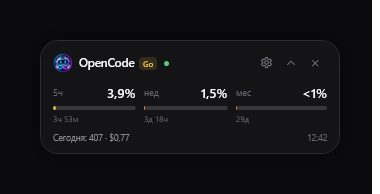
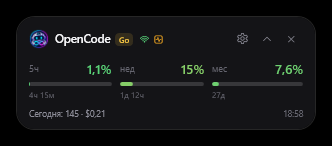
Color limit indicators green to red by usage

diff --git a/MainWindow.xaml b/MainWindow.xaml
@@ -237,14 +237,11 @@
                         <ColumnDefinition Width="*" />
                     </Grid.ColumnDefinitions>
                     <controls:RingMeter x:Name="FiveHourMeter"
-                                        Grid.Column="0"
-                                        Accent="{StaticResource RingFiveBrush}" />
+                                        Grid.Column="0" />
                     <controls:RingMeter x:Name="WeekMeter"
-                                        Grid.Column="1"
-                                        Accent="{StaticResource RingWeekBrush}" />
+                                        Grid.Column="1" />
                     <controls:RingMeter x:Name="MonthMeter"
-                                        Grid.Column="2"
-                                        Accent="{StaticResource RingMonthBrush}" />
+                                        Grid.Column="2" />
                 </Grid>
 
                 <Border Grid.Row="4"
@@ -457,15 +454,12 @@
                     </Grid.ColumnDefinitions>
                     <controls:MiniMeter x:Name="CompactFiveHour"
                                         Grid.Column="0"
-                                        Accent="{StaticResource RingFiveBrush}"
                                         Margin="0,0,8,0" />
                     <controls:MiniMeter x:Name="CompactWeek"
                                         Grid.Column="1"
-                                        Accent="{StaticResource RingWeekBrush}"
                                         Margin="0,0,8,0" />
                     <controls:MiniMeter x:Name="CompactMonth"
-                                        Grid.Column="2"
-                                        Accent="{StaticResource RingMonthBrush}" />
+                                        Grid.Column="2" />
                 </Grid>
 
                 <!-- Compact error -->

diff --git a/App.xaml b/App.xaml
@@ -20,9 +20,6 @@
             <SolidColorBrush x:Key="DangerBrush" Color="#FFFF6B6B" />
             <SolidColorBrush x:Key="InputBrush" Color="#B3101013" />
             <SolidColorBrush x:Key="InputBorderBrush" Color="#26FFFFFF" />
-            <SolidColorBrush x:Key="RingFiveBrush" Color="#FFF5C542" />
-            <SolidColorBrush x:Key="RingWeekBrush" Color="#FFFF9F0A" />
-            <SolidColorBrush x:Key="RingMonthBrush" Color="#FFFF714B" />
 
             <LinearGradientBrush x:Key="AccentGradient" StartPoint="0,0" EndPoint="1,1">
                 <GradientStop Color="#FFF8D66B" Offset="0" />

diff --git a/Controls/RingMeter.xaml.cs b/Controls/RingMeter.xaml.cs
@@ -9,24 +9,12 @@ namespace OpenCodeWidget.Controls;
 
 public partial class RingMeter : UserControl
 {
-    public static readonly DependencyProperty AccentProperty = DependencyProperty.Register(
-        nameof(Accent),
-        typeof(Brush),
-        typeof(RingMeter),
-        new PropertyMetadata(Brushes.Gold, OnAccentChanged));
-
     private static readonly CultureInfo Ru = CultureInfo.GetCultureInfo("ru-RU");
     private static readonly Duration AnimationDuration = new(TimeSpan.FromMilliseconds(520));
 
     public RingMeter()
     {
         InitializeComponent();
-    }
-
-    public Brush Accent
-    {
-        get => (Brush)GetValue(AccentProperty);
-        set => SetValue(AccentProperty, value);
     }
 
     public void SetData(double percent, string title, string resetText, string? tooltip = null)
@@ -38,21 +26,8 @@ public partial class RingMeter : UserControl
         PercentText.Text = FormatPercent(percent);
         ToolTip = tooltip;
 
-        var foreground = ResourceBrush("TextBrush");
-        var accent = Accent ?? Brushes.Gold;
-
-        if (percent >= 90)
-        {
-            accent = ResourceBrush("DangerBrush");
-            foreground = accent;
-        }
-        else if (percent >= 70)
-        {
-            accent = ResourceBrush("WarningBrush");
-            foreground = accent;
-        }
-
-        PercentText.Foreground = foreground;
+        var accent = LimitPalette.BrushFor(percent);
+        PercentText.Foreground = accent;
         Ring.Accent = accent;
 
         var animation = new DoubleAnimation(percent, AnimationDuration)
@@ -72,12 +47,6 @@ public partial class RingMeter : UserControl
         ToolTip = message;
         Ring.BeginAnimation(RingRenderer.ValueProperty, null);
         Ring.Value = 0;
-    }
-
-    private static void OnAccentChanged(DependencyObject d, DependencyPropertyChangedEventArgs e)
-    {
-        if (d is RingMeter meter && meter.Ring is not null && e.NewValue is Brush brush)
-            meter.Ring.Accent = brush;
     }
 
     private static Brush ResourceBrush(string key)

diff --git a/Controls/MiniMeter.xaml.cs b/Controls/MiniMeter.xaml.cs
@@ -14,12 +14,6 @@ public partial class MiniMeter : UserControl
         typeof(MiniMeter),
         new PropertyMetadata(0d, OnValueChanged));
 
-    public static readonly DependencyProperty AccentProperty = DependencyProperty.Register(
-        nameof(Accent),
-        typeof(Brush),
-        typeof(MiniMeter),
-        new PropertyMetadata(Brushes.Gold, OnAccentChanged));
-
     private static readonly CultureInfo Ru = CultureInfo.GetCultureInfo("ru-RU");
 
     public MiniMeter()
@@ -34,12 +28,6 @@ public partial class MiniMeter : UserControl
         set => SetValue(ValueProperty, value);
     }
 
-    public Brush Accent
-    {
-        get => (Brush)GetValue(AccentProperty);
-        set => SetValue(AccentProperty, value);
-    }
-
     public void SetData(double percent, string title, string resetText, string? tooltip = null)
     {
         Value = Math.Clamp(percent, 0, 100);
@@ -48,22 +36,9 @@ public partial class MiniMeter : UserControl
         PercentText.Text = FormatPercent(Value);
         ToolTip = tooltip;
 
-        var accent = Accent ?? Brushes.Gold;
-        var foreground = ResourceBrush("TextBrush");
-
-        if (Value >= 90)
-        {
-            accent = ResourceBrush("DangerBrush");
-            foreground = accent;
-        }
-        else if (Value >= 70)
-        {
-            accent = ResourceBrush("WarningBrush");
-            foreground = accent;
-        }
-
+        var accent = LimitPalette.BrushFor(Value);
         Fill.Background = accent;
-        PercentText.Foreground = foreground;
+        PercentText.Foreground = accent;
         UpdateFill();
     }
 
@@ -89,12 +64,6 @@ public partial class MiniMeter : UserControl
     {
         if (d is MiniMeter meter)
             meter.UpdateFill();
-    }
-
-    private static void OnAccentChanged(DependencyObject d, DependencyPropertyChangedEventArgs e)
-    {
-        if (d is MiniMeter meter && e.NewValue is Brush brush && meter.Value < 70)
-            meter.Fill.Background = brush;
     }
 
     private static Brush ResourceBrush(string key)

diff --git a/MainWindow.xaml.cs b/MainWindow.xaml.cs
@@ -409,6 +409,9 @@ public partial class MainWindow : Window
             TaskbarFiveHour.Text = "-";
             TaskbarWeek.Text = "-";
             TaskbarMonth.Text = "-";
+            TaskbarFiveHour.Foreground = (Brush)FindResource("TextBrush");
+            TaskbarWeek.Foreground = (Brush)FindResource("TextBrush");
+            TaskbarMonth.Foreground = (Brush)FindResource("TextBrush");
             TaskbarCard.ToolTip = string.IsNullOrEmpty(_loadSummary)
                 ? "OpenCode Go"
                 : "OpenCode Go\n" + _loadSummary;
@@ -419,6 +422,10 @@ public partial class MainWindow : Window
         TaskbarWeek.Text = FormatShortPercent(meters.Week?.Percent);
         TaskbarMonth.Text = FormatShortPercent(meters.Month?.Percent);
 
+        SetTaskbarMeterColor(TaskbarFiveHour, meters.FiveHour?.Percent);
+        SetTaskbarMeterColor(TaskbarWeek, meters.Week?.Percent);
+        SetTaskbarMeterColor(TaskbarMonth, meters.Month?.Percent);
+
         var tooltip =
             $"OpenCode Go · 5ч {TaskbarFiveHour.Text} ({FormatMeterUsd(meters.FiveHour)}) · " +
             $"нед {TaskbarWeek.Text} ({FormatMeterUsd(meters.Week)}) · " +
@@ -428,6 +435,13 @@ public partial class MainWindow : Window
             tooltip += "\n" + _loadSummary;
 
         TaskbarCard.ToolTip = tooltip;
+    }
+
+    private void SetTaskbarMeterColor(TextBlock text, double? percent)
+    {
+        text.Foreground = percent is { } value
+            ? LimitPalette.BrushFor(value)
+            : (Brush)FindResource("TextBrush");
     }
 
     private void ApplyServiceStatus(ServiceStatusResponse status, GoActivityResponse? activity)

diff --git a/Controls/LimitPalette.cs b/Controls/LimitPalette.cs
@@ -1,0 +1,54 @@
+using System.Windows.Media;
+
+namespace OpenCodeWidget.Controls;
+
+public static class LimitPalette
+{
+    private readonly record struct Stop(double At, Color Color);
+
+    // 0% used = green, 100% used = deep red. The more limit is spent,
+    // the warmer the indicator becomes.
+    private static readonly Stop[] Stops =
+    [
+        new(0.00, Color.FromRgb(0x56, 0xD2, 0x78)),
+        new(0.50, Color.FromRgb(0xF5, 0xC5, 0x42)),
+        new(0.75, Color.FromRgb(0xFF, 0x9F, 0x0A)),
+        new(0.90, Color.FromRgb(0xFF, 0x6B, 0x6B)),
+        new(1.00, Color.FromRgb(0xE5, 0x48, 0x4D)),
+    ];
+
+    public static Color ColorFor(double percentUsed)
+    {
+        var t = Math.Clamp(percentUsed, 0, 100) / 100.0;
+
+        for (var i = 0; i < Stops.Length - 1; i++)
+        {
+            var from = Stops[i];
+            var to = Stops[i + 1];
+
+            if (t > to.At)
+                continue;
+
+            var span = to.At - from.At;
+            var k = span <= 0 ? 0 : (t - from.At) / span;
+            return Lerp(from.Color, to.Color, k);
+        }
+
+        return Stops[^1].Color;
+    }
+
+    public static Brush BrushFor(double percentUsed)
+    {
+        return new SolidColorBrush(ColorFor(percentUsed));
+    }
+
+    private static Color Lerp(Color from, Color to, double k)
+    {
+        k = Math.Clamp(k, 0, 1);
+
+        return Color.FromRgb(
+            (byte)Math.Round(from.R + (to.R - from.R) * k),
+            (byte)Math.Round(from.G + (to.G - from.G) * k),
+            (byte)Math.Round(from.B + (to.B - from.B) * k));
+    }
+}

diff --git a/README.md b/README.md
@@ -23,6 +23,8 @@
 ## Что показывает
 
 - Три кольца с процентами использованной квоты: 5 часов, неделя, месяц.
+- Цвет кольца и процента зависит от расхода: 0% зелёный, 50% жёлтый, 75% оранжевый, 90% красный.
+  Это одинаково для всех трёх окон: чем меньше лимита осталось, тем краснее индикатор.
 - Время до сброса каждого окна.
 - Тариф и дату продления подписки.
 - Статистику за сегодня: запросы, токены, стоимость и самую используемую модель.
